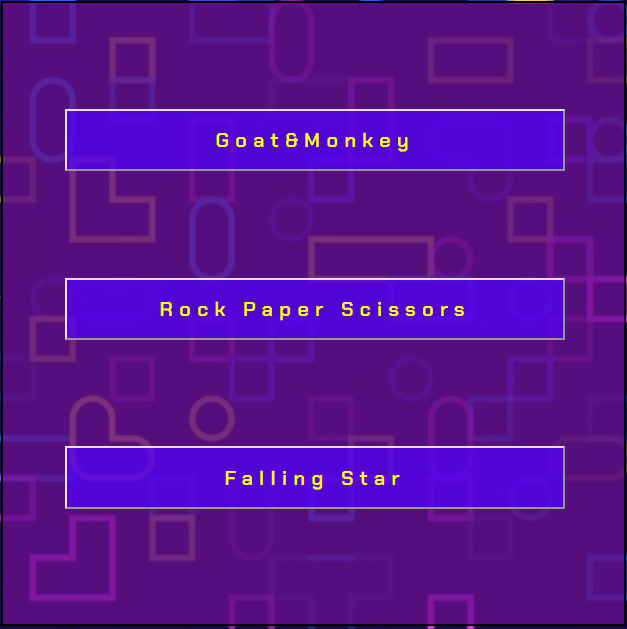
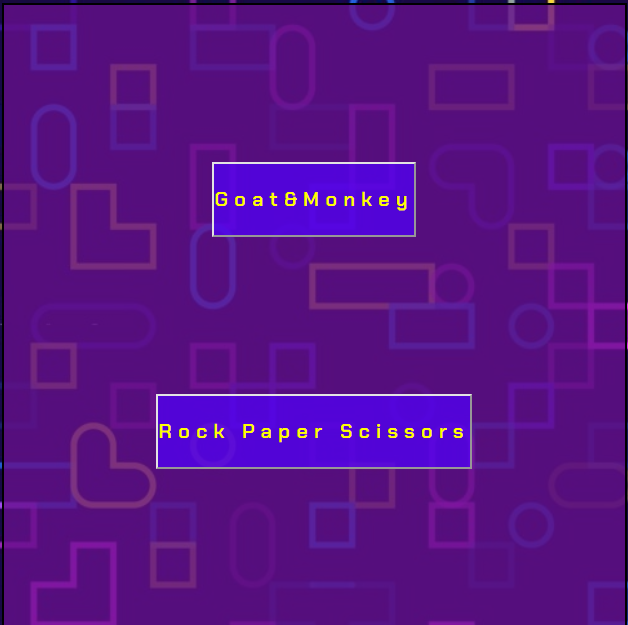
edit readme file

diff --git a/README.md b/README.md
@@ -125,63 +125,46 @@ Here the user will be able to pick one of three possible options representing th
  
 ![screenshot of rock-paper-scissors options](/docs/img/options.png)
  
-- The game will start as soon as the user will pick an option, letting the computer choose it.
+- The game will start as soon as the user will pick an option, and let the computer choose its move.
  
 ![screenshot of game not started yet](/docs/img/choice-before.png)
  
 ![screenshot of game started](/docs/img/choice-after.png)
  
-- Results will be displayed at the bottom of the playground, stating either of the three possible outcomes
+- Results will be displayed at the bottom of the playground, showing one of the three possible outcomes:
+
  - 1) Draw
- 
- ![screenshot of 'it's a draw' result](/docs/img/draw-result.png)
+  ![screenshot of 'it's a draw' result](/docs/img/draw-result.png)
  
  - 2) User win
- 
- ![screenshot of 'you win' result](/docs/img/you-win-result.png)
+  ![screenshot of 'you win' result](/docs/img/you-win-result.png)
  
  - 3) User lose
+  ![screenshot of 'you lose' result](/docs/img/you-lose-result.png)
  
- ![screenshot of 'you lose' result](/docs/img/you-lose-result.png)
- 
- In this version of the game, the user will be able to play as much as she/he wants.
- In future versions, this game will feature a score section to display who is actually winning in the long run...
- 
- ## 3rd Game - Falling Star
- 
- Another reinterpretation (in terms of graphic) of a classic game. This version features as a character a little yellow start
- 
- ![screenshot of game3 character](/docs/img/star.png)
- 
- Set in a background featuring a starred universe
- 
- ![screenshot of game3 background](docs/img/game3-playground.png)
- 
- The player will have to move either left or right to let the start falling on the ''pavement'' underneath , by using the ''holes'' in the pavement itself. A visual color difference will help the player identify the hole and go towards that direction.
- 
- ![screenshot of wall&crater of game3](docs/img/wall%26crater.png)
- 
- - The game will end when the star will touch the top of the playground; if and when the user won't be fast enough to let its star fall down below, as the walls will be moving upwards towards the playground top.
- The 'Game over-play again' option will pop up should this happen.
+ In this first game release, the user will be able to play as much as she/he wants.
+ In future releases, this game will feature a score section to show who is actually winning in the long run...
  
  
 ## Visual and audio
  
 The different backgrounds used in this website should please the users and deliver a positive visual response.
  
-The three different soundtracks chosen and assigned to the three games, should be catchy enough to let the user continue its positive experience. An option of pausing the music, or play without volume had been provided should the user prefer this way.
+The two different soundtracks chosen for each game, should be catchy enough to let the user continue its positive experience. 
+However, an option to pause the soundtrack, or even play without volume has been provided.
  
  
 ## Footer
  
-The footer had been kept simple and easy to locate. By maintaining the same color palette used in the whole site; it displays favicons of the most known social platforms.
+The footer had been kept simple and easy to locate. It displays favicons of the most known social platforms.
  
 ![screenshot of footer](/docs/img/footer.png)
  
-The idea behind this is to create a sense of community where players can post about their scores (-to be added in future versions of each games-) and overall to stay up-to-date with new games release.
+The idea behind this is to create a sense of community where players can share their thoughts and stay up-to-date with new games release.
  
 # *Technologies Used*
-Many sites have been helping me clarify concepts to complete this project. Such as:
+I've checked a few websites and additional external sources to complete this project. See below:
+
 -   [W3Schools](https://www.w3schools.com/)
     - Used to check html, ccs, and js , to have a good layout, style and find solutions to some bugs
 -   [Google Fonts](https://fonts.google.com/)
@@ -226,7 +209,7 @@ After fixing some errors on both testing sites- mainly some typos but also some 
  
 ![image of HTML positive validator results-home page](/docs/img/validator-index.png)
 ![image of HTML positive validator results-1st game](/docs/img/htmlCheker-game1.png)
-![image of HTML positive validator results-3rd game](/docs/img/validator-game3.png)
+
  
 ![image of CSS positive validator results](/docs/img/css-validation.png)
  
@@ -238,22 +221,10 @@ The Color Contrast Accessibility Validator was used to test for color contrast o
 ![image of Color Contrast validator with a positive response-index](/docs/img/color-contrast-validator.png)
 ![image of Color Contrast validator with a positive response-1st Game](/docs/img/colorCr-1stGame.png)
 ![image of Color Contrast validator with a positive response-2nd Game](/docs/img/colorCr-game2.png)
-![image of Color Contrast validator with a positive response-3rd Game](/docs/img/colorCr-game3.png)
  
 ### Known Bugs and issues
-The third game - Falling Star - is simply out of order.
  
-Sadly, way too much bug fixing had prevented me from finishing with the Javascript code to make it work.
- 
-HOWEVER! as this website has been created for learning purposes and to have fun whilst learning how to use Javascript language, and discover other few bits and bots of CSS and HTML, i've come to terms with myself and decided that the grade is not that much of a deal, so I've left the project as it is right now -just a button with an 'out of order message'.
- 
-![screenshot of 'out of order' button in game 3](docs/img/out-of-order.png)
- 
-For those of you wondering: I am very proud of what I've achieved so far.
- 
-- The music chosen for the games,although still in the audio folder, had been removed, as the site was super-slow and I don't have the right knowledge yet to fix this issue. To the few still reading this file, feel free to play in the background to fully experience what I originally wanted to provide the users with. Enjoy!
- 
-- Althought the HTML page ends right where the footer is, part of the main background image keeps on showing up underneath.
+- Althought the HTML page ends right where the footer is, part of the body element keeps on showing underneath.
 ![screenshot of part of the background showing underneath the HTML page](docs/img/knownbug.png)
  
 - There are two empty 'src' attributes in game2. The image had been uploaded through the css file
@@ -261,7 +232,7 @@ For those of you wondering: I am very proud of what I've achieved so far.
  
 #   Credits
 ##  Code
-The content for this website was created by the owner with the only purpose of putting into practice what has been learnt so far in CodeInstitute course.
+The content for this website was created by the owner to practice the Javascript module of CodeInstitute course.
 No game rules on this website are the fruit of the owner's imagination. Classic versions had been around for a long time.
  
 ##  Acknowledgements
@@ -275,13 +246,11 @@ I couldn't have done it without studying what was shown in their videos.
  
  [Ania Kubow Youtube channel](https://www.youtube.com/c/AniaKub%C3%B3w)
  
-On a more personal note I will have to offer dinner to many friends of mine:
+On a more personal note I would like to thank some friends of mine:
  
 - First of all my good friend Francesco Rubino, for patiently showing me how to fix some bugs and supporting me in the final stage of the project itself.
  
 - My dearest ones Martina and Cosimo for their support and patience.
- 
-- The crazy amounts of bloggers that took their time to post online tips on how to create some great code.
  
 - Harry Dillon from CodeInstitute who helped me figure out how to fix a few things.
  
